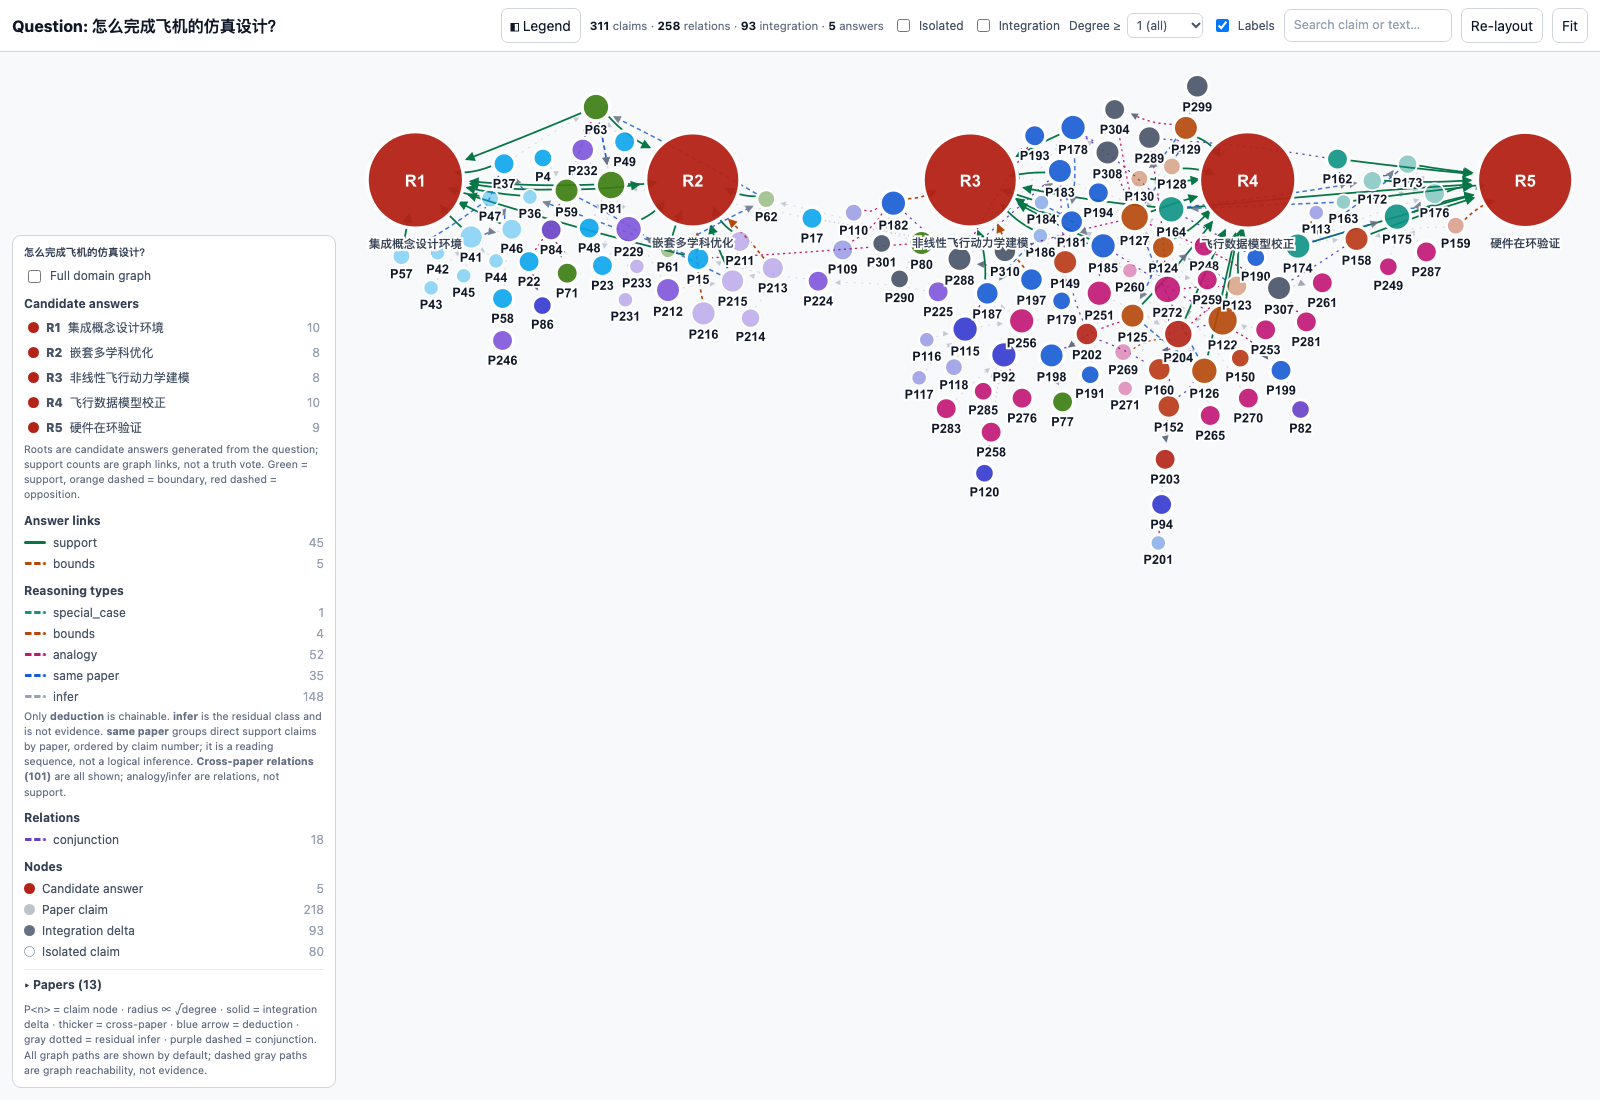
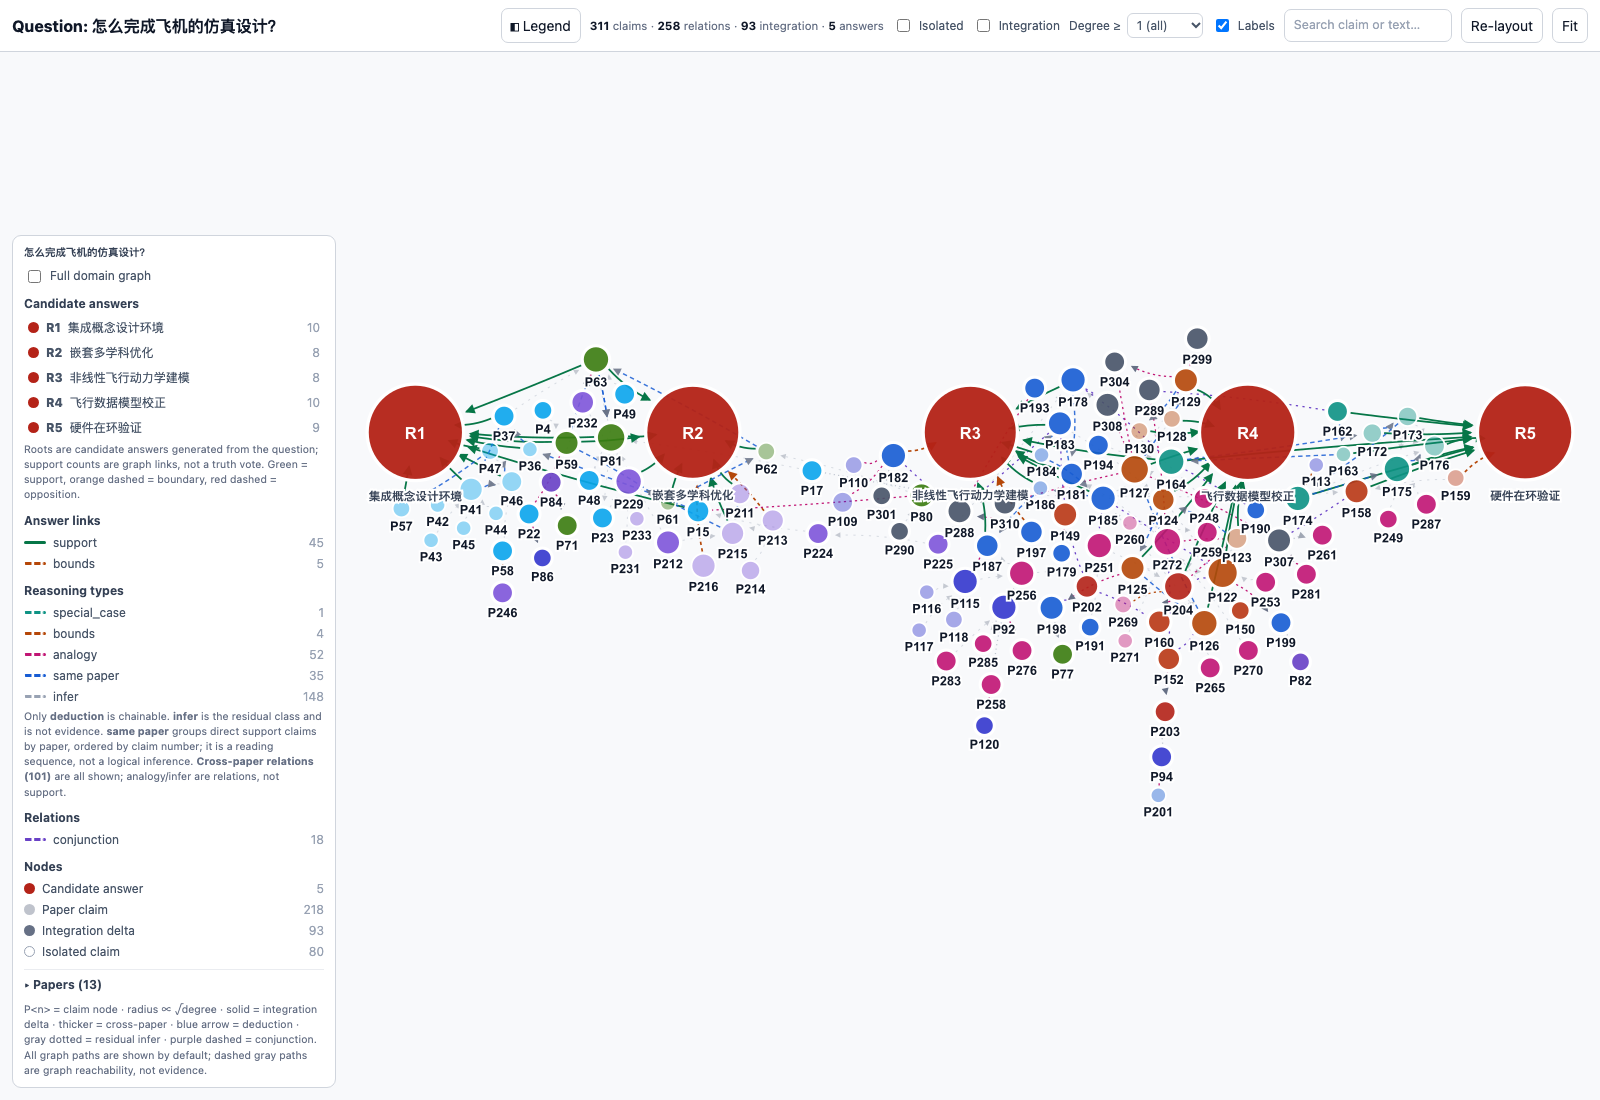
Center question graphs in the available viewer canvas

Changed region(s): [[0.2188, 0.0618, 1.0, 0.7418]]

diff --git a/outputs/question_domain_aircraft/domain_viewer_question.html b/outputs/question_domain_aircraft/domain_viewer_question.html
@@ -1074,13 +1074,10 @@ function renderRich(value) {
     const width = Math.max(1, maxX - minX), height = Math.max(1, maxY - minY);
     const rect = viewportRect();
     const k = Math.min(Math.max(Math.min(rect.width / width, rect.height / height), 0.12), 3.2);
-    const hasRoots = nodes.some(function(n){ return n.isRoot && !n.el.classList.contains('hidden'); });
     transform = {
       k: k,
       x: rect.left + (rect.width - width * k) / 2 - minX * k,
-      y: hasRoots
-        ? rect.top + 6 - minY * k
-        : rect.top + (rect.height - height * k) / 2 - minY * k
+      y: rect.top + (rect.height - height * k) / 2 - minY * k
     };
     state.fitted = true;
     applyTransform();

diff --git a/pipelines/merge/pipeline_merge_question/viewer_question.html b/pipelines/merge/pipeline_merge_question/viewer_question.html
@@ -1074,13 +1074,10 @@ function renderRich(value) {
     const width = Math.max(1, maxX - minX), height = Math.max(1, maxY - minY);
     const rect = viewportRect();
     const k = Math.min(Math.max(Math.min(rect.width / width, rect.height / height), 0.12), 3.2);
-    const hasRoots = nodes.some(function(n){ return n.isRoot && !n.el.classList.contains('hidden'); });
     transform = {
       k: k,
       x: rect.left + (rect.width - width * k) / 2 - minX * k,
-      y: hasRoots
-        ? rect.top + 6 - minY * k
-        : rect.top + (rect.height - height * k) / 2 - minY * k
+      y: rect.top + (rect.height - height * k) / 2 - minY * k
     };
     state.fitted = true;
     applyTransform();

diff --git a/pipelines/merge/tests/test_step4_question.py b/pipelines/merge/tests/test_step4_question.py
@@ -74,5 +74,36 @@ assert.deepEqual(visible(), nodes.map(n => n.id));
         self.assertEqual(result.returncode, 0, result.stdout + result.stderr)
 
 
+
+    @unittest.skipUnless(shutil.which("node"), "Node.js is required for viewer regression tests")
+    def test_viewer_centers_root_graph_in_available_canvas(self):
+        template = (Path(__file__).parents[1] / "pipeline_merge_question" / "viewer_question.html").read_text()
+        start = template.index("  function viewportRect(){")
+        end = template.index("  function runLayout(", start)
+        script = r"""
+const assert = require('node:assert/strict');
+const W = () => 1600, H = () => 1048;
+const document = {getElementById() { return {classList: {contains() { return false; }}}; }};
+const nodes = [
+  {index: 0, r: 40, isRoot: true, el: {classList: {contains() {return false;}}}},
+  {index: 1, r: 10, isRoot: false, el: {classList: {contains() {return false;}}}},
+  {index: 2, r: 50, isRoot: false, el: {classList: {contains() {return true;}}}}
+];
+const state = {positions: [{x: 100, y: 100}, {x: 1000, y: 300}, {x: -9000, y: -9000}]};
+let transform;
+function applyTransform() {}
+function paint() {}
+""" + template[start:end] + r"""
+fit();
+const rect = viewportRect();
+// Bounds include the viewer's node and text padding; hidden nodes do not affect fit.
+const centerX = ((100 - 40 - 10) + (1000 + 10 + 10)) / 2;
+const centerY = ((100 - 40 - 4) + (300 + 10 + 24)) / 2;
+assert.ok(Math.abs(transform.x + centerX * transform.k - (rect.left + rect.width / 2)) < 1e-8);
+assert.ok(Math.abs(transform.y + centerY * transform.k - (rect.top + rect.height / 2)) < 1e-8);
+"""
+        result = subprocess.run([shutil.which("node"), "-e", script], capture_output=True, text=True)
+        self.assertEqual(result.returncode, 0, result.stdout + result.stderr)
+
 if __name__ == "__main__":
     unittest.main()
